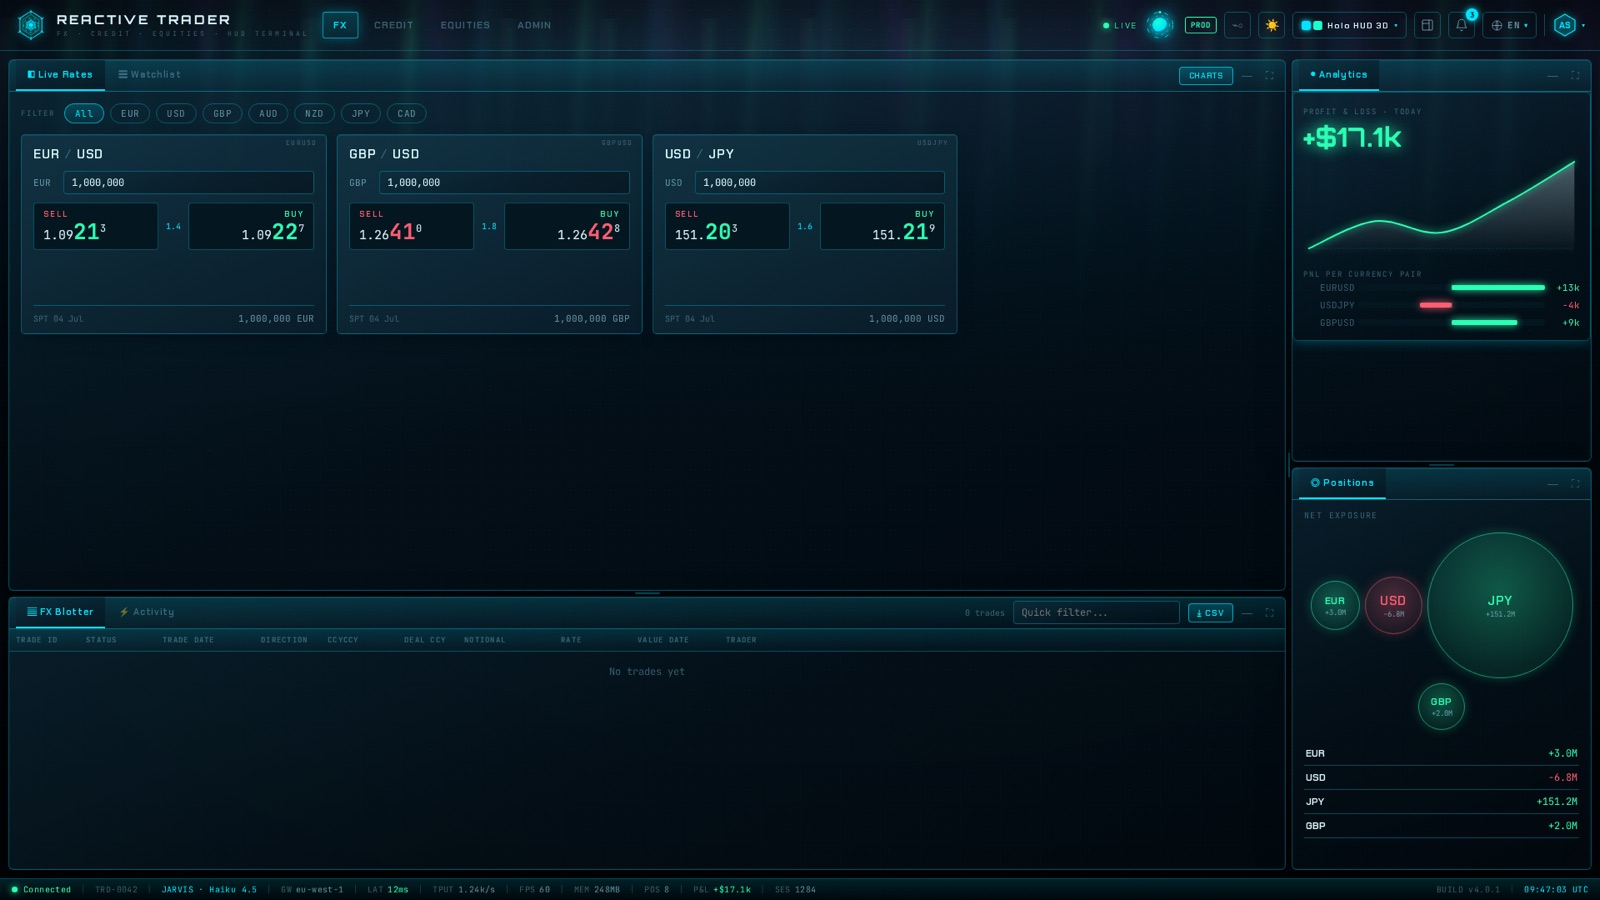
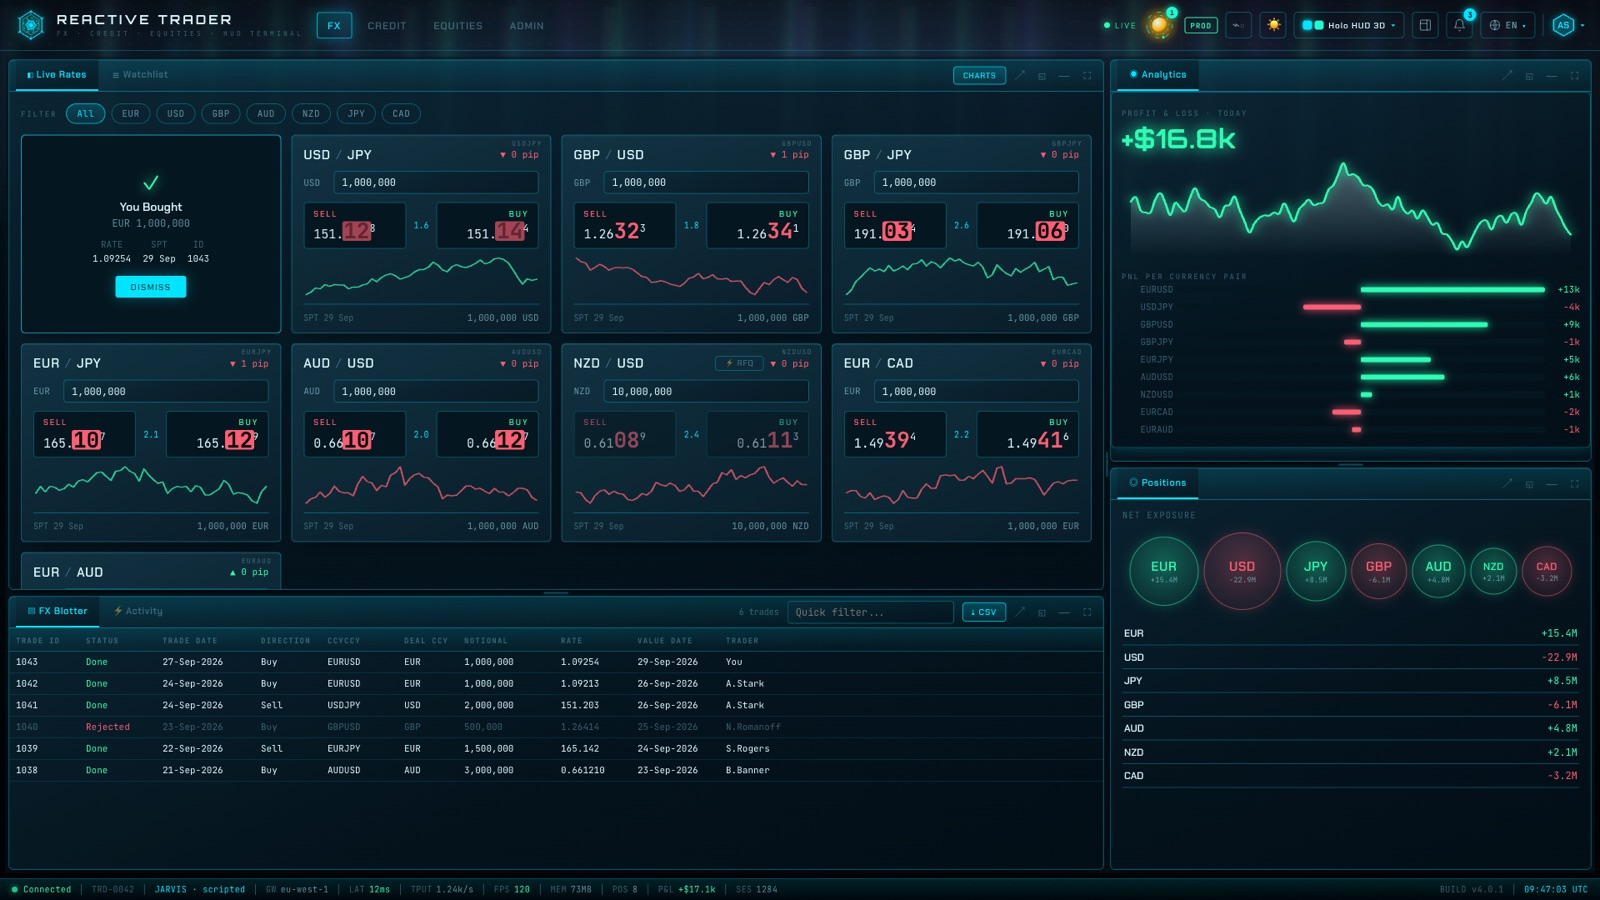
docs(readme): live-app screenshots, Terminal 3D, clean-architecture payoffs
Screenshots now come from the running app (simulator mode) instead of the
sparse full-page goldens, so each view is populated: FX with a trade
confirmation, equities with three chart panels + indicators + filled
orders, three live credit RFQs, a populated admin console, Jarvis's
confirm-gated trade and the layout it drove, a Dockview dock/float shot,
and the Terminal 3D / Classic-light skins. Mobile adds the trade screen,
appearance sheet, three boot scenes (existing goldens) and a Terminal 3D
row re-rendered through the RN visual harness.

New "What clean architecture bought us" section: five concrete payoffs
(Solid port, two alternative cores, optional server, Jarvis via machine
intents, DevTools at the composition root) with a layer diagram and a
client/contract/core/data-source diagram. Skin count corrected to six.

Claude-Session: https://claude.ai/code/session_01EyckQb5d2cAk8Papv4wzKf

diff --git a/README.md b/README.md
@@ -10,7 +10,7 @@ implementations** (RxJS, async/await, Effect-TS), all held to the same
 behavioural contract. Inspired by
 [Adaptive's ReactiveTraderCloud](https://github.com/AdaptiveConsulting/ReactiveTraderCloud).
 
-![Reactive Trader web client — FX workspace on the Holo HUD 3D skin](docs/readme/web-fx.jpg)
+![Reactive Trader web client — the FX workspace streaming live prices on the Holo HUD 3D skin, with a just-executed trade confirmation](docs/readme/web-fx.jpg)
 
 ## Live demo
 
@@ -25,10 +25,10 @@ sharing one application core and one test contract, and asserted against the
 **same pixel goldens** — the only difference is the UI framework underneath.
 Both stream live from the same server.
 
-> The deployed demo is behind a per-user login (there is no public password).
-> To try it with zero setup, run it locally in simulator mode — see
-> [Quick start](#quick-start) — and sign in with the committed demo accounts.
-> Deploys are on demand, so the live sites can trail `main` slightly.
+> The deployed demo is login-gated. To try it with zero setup, run it locally
+> in simulator mode — see [Quick start](#quick-start) — and sign in with the
+> committed demo accounts. Deploys are on demand, so the live sites can trail
+> `main` slightly.
 
 ## Screenshots
 
@@ -36,21 +36,34 @@ Both stream live from the same server.
 
 | | |
 |---|---|
-| ![Equities: candlestick chart, order ticket, watchlist and orders blotter](docs/readme/web-equities.jpg) | ![Credit: RFQ builder, live dealer quotes with countdown, and credit blotter](docs/readme/web-credit.jpg) |
-| **Equities** — candles with indicators, order ticket, watchlist, orders blotter | **Credit** — multi-dealer RFQs with live quotes, countdown and accept |
-| ![J.A.R.V.I.S. — the AI desk assistant answering a price question](docs/readme/web-jarvis.jpg) | ![The same equities workspace in the Classic light skin](docs/readme/web-equities-classic-light.jpg) |
-| **J.A.R.V.I.S.** — an AI assistant that quotes, briefs and trades on the desk | **Skins** — five skins (Classic, Terminal, Holo HUD, and two 3D variants), each light or dark |
+| ![Equities: three candlestick chart panels with SMA, EMA and RSI, order ticket, watchlist and filled orders](docs/readme/web-equities-multichart.jpg) | ![Credit: three live RFQs with competing dealer quotes, countdowns and accept buttons](docs/readme/web-credit-rfqs.jpg) |
+| **Equities** — any number of chart panels, indicators, order ticket, live watchlist | **Credit** — multi-dealer RFQs racing their countdowns, best quote starred |
+| ![Admin: throughput, P99 latency, error rate, latency histogram, service health, live events, topology and incident injection](docs/readme/web-admin.jpg) | ![Dockview workspace: a Jarvis panel docked as a new column and the Positions panel floating over the grid](docs/readme/web-dockview.jpg) |
+| **Admin** — live observability, plus incident injection to watch the system degrade | **Dockable workspace** — dock, tab, float, pop out, maximize and collapse any panel |
+| ![J.A.R.V.I.S. conversation ending in a confirm-gated EURUSD trade awaiting approval](docs/readme/web-jarvis-confirm.jpg) | ![The workspace after Jarvis rearranged it: maximized chart, collapsed side rails and a floating GBP volatility panel](docs/readme/web-jarvis-drives-layout.jpg) |
+| **J.A.R.V.I.S.** — quotes, briefs, charts on request; trades only after you approve | **…and drives the app** — the same intents the UI emits, so it can re-lay-out your workspace |
+| ![The FX workspace on the Terminal 3D skin](docs/readme/web-fx-terminal3d.jpg) | ![The equities workspace on the Classic light skin](docs/readme/web-equities-classic-light.jpg) |
+| **Terminal 3D** skin | **Classic** skin, light mode — six skins in all, each light or dark |
 
-### Mobile (iOS, React Native / Expo)
+### Mobile (iOS — React Native / Expo)
 
 | Rates | Equities | Credit | Analytics |
 |:---:|:---:|:---:|:---:|
-| ![Mobile FX rate tiles](docs/readme/mobile-rates.jpg) | ![Mobile equities market ranking with sparklines](docs/readme/mobile-equities.jpg) | ![Mobile credit RFQ with dealer quotes](docs/readme/mobile-credit.jpg) | ![Mobile P&L, pair P&L and net exposure](docs/readme/mobile-analytics.jpg) |
+| ![Mobile FX rate tiles](docs/readme/mobile-rates.jpg) | ![Mobile equities trade screen: chart, order ticket and positions](docs/readme/mobile-equities-trade.jpg) | ![Mobile credit RFQ with competing dealer quotes](docs/readme/mobile-credit.jpg) | ![Mobile P&L, pair P&L and net exposure](docs/readme/mobile-analytics.jpg) |
 
-Every screenshot above is a committed **visual-regression golden** from the test
-suite, not a hand-staged marketing shot — the web ones from
-`packages/ui-contract/goldens/`, the mobile ones from
-`packages/client-react-native/tests/visual/`.
+**Terminal 3D skin** — the same screens, one preference away:
+
+| Rates | Equities | Credit | Analytics |
+|:---:|:---:|:---:|:---:|
+| ![Mobile rates on the Terminal 3D skin](docs/readme/mobile-t3d-rates.jpg) | ![Mobile equities trade on the Terminal 3D skin](docs/readme/mobile-t3d-equities.jpg) | ![Mobile credit RFQs on the Terminal 3D skin](docs/readme/mobile-t3d-credit.jpg) | ![Mobile analytics on the Terminal 3D skin](docs/readme/mobile-t3d-analytics.jpg) |
+
+| Boot — docking cam | Boot — holo projector | Boot — schematic core | Appearance |
+|:---:|:---:|:---:|:---:|
+| ![Boot scene: docking camera with target lock](docs/readme/mobile-boot-docking.jpg) | ![Boot scene: volumetric hologram depth field](docs/readme/mobile-boot-hologram.jpg) | ![Boot scene: 3D schematic core linking subsystems](docs/readme/mobile-boot-core.jpg) | ![Appearance sheet: six skins, ambient background, power saver](docs/readme/mobile-appearance.jpg) |
+
+Web shots are the running React client in simulator mode; mobile shots are the
+iOS visual-regression harness (`packages/client-react-native/tests/visual/`) —
+the committed goldens, plus the same scenarios re-rendered on Terminal 3D.
 
 ## What's inside
 
@@ -61,16 +74,17 @@ suite, not a hand-staged marketing shot — the web ones from
 - **Credit** — request-for-quote workflow: build an RFQ, collect competing
   dealer quotes against a countdown, accept the best; plus a sell-side view.
 - **Equities** — interactive candlestick charts (indicators, comparisons,
-  drawing tools), order ticket, watchlist, depth, orders and positions.
+  drawing tools) in as many panels as you like, order ticket, watchlist,
+  depth, orders and positions.
 - **Admin** — an observability console: throughput, latency, service topology,
   sessions, live events, and incident injection to watch the system degrade.
 - **J.A.R.V.I.S.** — an AI assistant backed by Claude (or a deterministic
-  scripted brain offline) that can quote, brief, lay out your workspace and
-  execute confirm-gated trades through a typed tool registry — also exposed to
-  external agents over an **MCP** endpoint.
-- **Dockable workspace** — drag, tab, float, maximize and collapse panels;
-  save layout presets.
-- **A HUD you can tune** — five skins × light/dark, animated 3D boot scenes, and
+  scripted brain offline) that can quote, brief, chart, lay out your workspace
+  and execute confirm-gated trades through a typed tool registry — also
+  exposed to external agents over an **MCP** endpoint.
+- **Dockable workspace** — dock, tab, float, pop out, maximize and collapse
+  panels; save layout presets.
+- **A HUD you can tune** — six skins × light/dark, animated 3D boot scenes, and
   a power-saver mode down to a fully motion-free *freeze*.
 - **Custom DevTools** — a Redux-DevTools-style inspector for the non-Redux state
   layer (presenters, state machines, wire traffic), in-app at `/devtools/` or as
@@ -93,39 +107,101 @@ suite, not a hand-staged marketing shot — the web ones from
 >   safe: tight contracts, fast feedback, and verification that doesn't depend
 >   on a human reading every line.
 
-What that buys, concretely:
+## What clean architecture bought us
 
-- **Swap the UI framework** — `@rtc/client-solid` is a full port of the React
-  client that passes the *same* behavioural specs, e2e suites and pixel goldens.
-- **Swap the application core** — the RxJS core, an async/await +
-  AsyncIterable core and an Effect-TS core implement one types-only contract
-  (`@rtc/core-api`) and pass one contract suite; pick one with `VITE_CORE_IMPL`
-  ([ADR-006](docs/adr/ADR-006-pluggable-application-core.md)).
-- **Swap the data source** — every client runs against an in-process simulator,
-  a local server or the deployed one, chosen at composition time.
-- **Enforce the architecture, don't just describe it** — dependency-cruiser
-  rules, pnpm strict mode and grep gates fail CI on any layering violation.
+The claim of clean architecture is that the things you are most likely to
+change — the UI framework, the state library, where the data comes from — sit
+at the edge, behind interfaces the inner layers own. Here that claim was
+**tested for real, more than once**:
+
+- **A second UI framework without a second app.** The SolidJS client was
+  written against the *same* application core and passes the *same*
+  behavioural specs, the same e2e suites and the same pixel goldens as the
+  React client. The core, the domain and the tests did not fork; only the
+  "dumb" view layer and a thin bindings package are Solid-specific.
+- **A second — and third — application core.** Every presenter and state
+  machine (74 members) was re-implemented on async/await + AsyncIterable and
+  again on Effect-TS, slice by slice, while the app kept shipping. All three
+  implement one types-only contract and pass one behavioural contract suite;
+  the React and Solid UIs run on any of them, selected by one build variable,
+  without knowing which.
+- **The server is optional.** The domain ships simulators behind the same
+  ports the WebSocket adapter implements, so every client runs fully offline —
+  which is also what lets the whole e2e matrix run in parallel with no backend.
+- **An AI agent got the app for free.** J.A.R.V.I.S. drives the workspace by
+  emitting the *same* intents the UI does into the *same* state machines, so
+  what the agent can do is exactly what the machine boundary exposes — no
+  second API to build or keep in sync.
+- **Tooling bolts on at the composition root.** The DevTools inspector wraps
+  presenters, machine factories and the socket adapter with decorators where
+  the app is assembled — no feature code knows it is being observed.
+
+### The layers
+
+Every arrow points inward. The domain knows nothing about the application
+core; the core knows nothing about React, Solid, React Native or the network.
+
+```mermaid
+flowchart TB
+  subgraph fw["Frameworks & drivers — replaceable"]
+    ui["UI<br/>React · SolidJS · React Native"]
+    io["I/O adapters<br/>WebSocket · browser storage · native storage"]
+  end
+  subgraph adapters["Interface adapters"]
+    vm["ViewModel bindings<br/>react-bindings · solid-bindings"]
+    ports["Port implementations<br/>WsAdapter · simulators · storage adapters"]
+  end
+  subgraph app["Application core — one contract, three implementations"]
+    core["Presenters + state machines<br/>RxJS · async/await · Effect-TS"]
+  end
+  subgraph dom["Domain — depends on nothing but RxJS"]
+    domain["Entities · use cases · port interfaces"]
+  end
+  ui --> vm --> core
+  io --> ports --> core
+  core --> domain
+  ports -. implements .-> domain
+```
+
+### One contract, many combinations
+
+Because each seam is an interface, the pieces compose freely — any client, on
+any core, against any data source — and a single contract suite holds every
+core to the same behaviour.
+
+```mermaid
+flowchart TB
+  subgraph clients["Clients — dumb views behind a ViewModel seam"]
+    direction LR
+    react["React"] ~~~ solid["SolidJS"] ~~~ rn["React Native"]
+  end
+  contract{{"@rtc/core-api — types-only contract"}}
+  subgraph cores["Application cores — pick one per build"]
+    direction LR
+    rx["RxJS"] ~~~ asyncCore["async/await"] ~~~ effectCore["Effect-TS"]
+  end
+  suite[["@rtc/core-contract — one behavioural suite for every core"]]
+  subgraph sources["Data sources — behind AppPorts"]
+    direction LR
+    sim["In-process simulators"] ~~~ local["Local server"] ~~~ remote["Deployed server"]
+  end
+  clients -- "consume" --> contract
+  contract -- "implemented by" --> cores
+  suite -. "verifies" .-> cores
+  cores -- "talk to" --> sources
+```
+
+The rules are enforced, not just drawn: dependency-cruiser fails CI on any
+import that points outward, pnpm strict mode keeps the domain's only runtime
+dependency RxJS, and grep gates catch what types cannot (for example, an
+"alternative core" reaching for an RxJS operator outside its bridge).
 
 ## Architecture at a glance
 
 A [pnpm](https://pnpm.io/) + [Turborepo](https://turbo.build/) monorepo of 25
-packages. Dependencies flow **inward only**:
-
-```mermaid
-flowchart TB
-  clients["Clients<br/>client-react · client-solid · client-react-native"]
-  bindings["Bindings<br/>react-bindings · solid-bindings"]
-  core["Application core — one contract (core-api), three implementations<br/>client-core (RxJS) · client-core-async · client-core-effect"]
-  inner["Domain and shared<br/>domain (rxjs only) · shared · core-logic"]
-  server["server<br/>WebSocket + ws-effects · Jarvis agent · /mcp"]
-  clients --> bindings --> core --> inner
-  server --> inner
-```
-
-The clients and the server never import each other; the domain's only runtime
-dependency is RxJS; the alternative cores never depend on the RxJS core at
-runtime. Any framework (React, RxJS, Vite, Vitest…) is meant to be replaceable
-by changing only its own package.
+packages. The clients and the server never import each other; the alternative
+cores never depend on the RxJS core at runtime. Any framework (React, RxJS,
+Vite, Vitest…) is meant to be replaceable by changing only its own package.
 
 <details>
 <summary>All 25 packages</summary>
